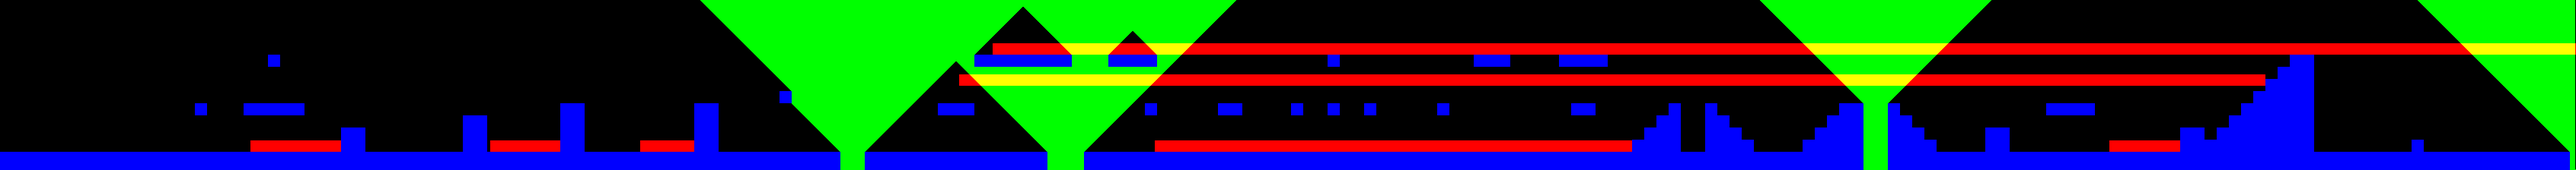
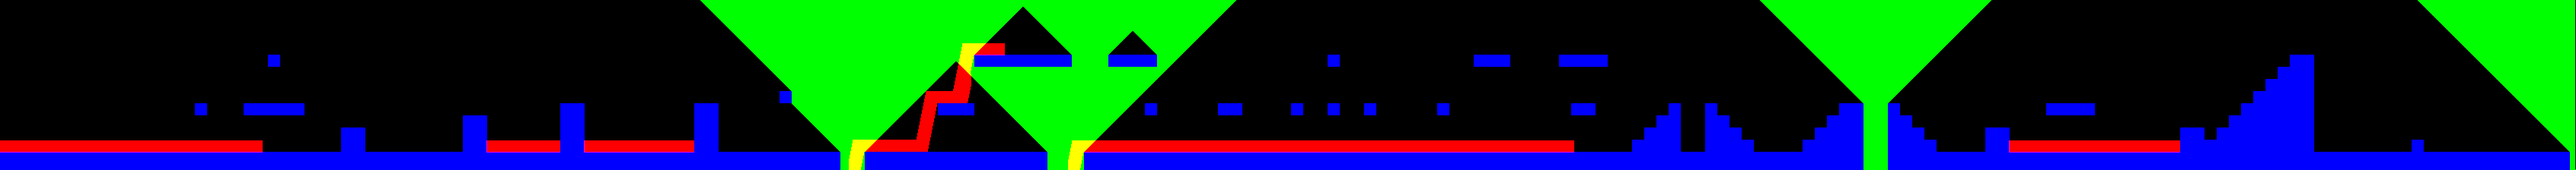
goomba movement

diff --git a/gamedifficulty/Processing.py b/gamedifficulty/Processing.py
@@ -65,12 +65,44 @@ def CreateStaticDanger(collisionMask: cv.Mat[cv.CV_8U]) -> cv.Mat[cv.CV_8U]:
 
 
 def CreateDisplacementTexture(ennemyType: EnemyType, detections: list[(int, int, int, int)], collisionMask: cv.Mat[cv.CV_8U]) -> cv.Mat[cv.CV_8U]:
+    if ennemyType == EnemyType.GOOMBA:
+        return CreateGoombaDisplacementTexture(detections, collisionMask)
 
+    return np.zeros(collisionMask.shape, dtype=np.uint8)
+
+def CreateGoombaDisplacementTexture(detections: list[(int, int, int, int)], collisionMask: cv.Mat[cv.CV_8U]) -> cv.Mat[cv.CV_8U]:
     result = np.zeros(collisionMask.shape, dtype=np.uint8)
 
-    # detection is y, x, ennemy size y, ennemy size x
+    cv.namedWindow("Window", cv.WINDOW_AUTOSIZE)
     for (y, x, sizeY, sizeX) in detections:
+        print("Goomba at", y, x)
 
+        result[y:y + sizeY, x:x + sizeX] = 1
+
+        direction = -1
+
+        iter = 0
+        maxIter = 1000
+        while True and iter < maxIter:
+            iter += 1
+
+            for i in range(0, int(np.abs(gravity))):
+                print(i)
+                if y < 0 or y + sizeY >= collisionMask.shape[0] or not collisionMask[y + sizeY, x:x + sizeX].any():
+                    y -= 1 * int(np.sign(gravity))
+                else:
+                    break
+
+            if collisionMask[y:y+sizeY - 1, x if direction == -1 else x + sizeX].any():
+                direction = 1 if direction == -1 else -1
+
+            x += direction
+
+            result[y:y + sizeY, x:x + sizeX] = 1
+
+            # if any of the pixels outside of image break
+            if y < 0 or y + sizeY >= collisionMask.shape[0] or x < 0 or x + sizeX >= collisionMask.shape[1]:
+                break
 
     return result
 

diff --git a/main.py b/main.py
@@ -20,18 +20,18 @@ positions += GD.Detection.DetectPatternMulti(levelImage, spriteSet.GetPipesTextu
 mask = GD.Processing.CreateMaskFromPatternResult(positions, levelImage.shape[:2])
 
 cv.imshow("Mask", mask * 255)
-cv.waitKey(0)
+# cv.waitKey(0)
 
 staticDanger = GD.Processing.CreateStaticDanger(mask)
 
 cv.imshow("Static Danger", staticDanger * 255)
-cv.waitKey(0)
+# cv.waitKey(0)
 
 goombaPositions = GD.Detection.DetectPatternMulti(levelImage, spriteSet.GetEnemyTextures(GD.Types.EnemyType.GOOMBA), 0.85)
 goombaDanger = GD.Processing.CreateDisplacementTexture(GD.Types.EnemyType.GOOMBA, goombaPositions, mask)
 
 cv.imshow("Goomba Danger", goombaDanger * 255)
-cv.waitKey(0)
+# cv.waitKey(0)
 
 enemyImage = GD.Processing.CreateMaskFromPatternResult(goombaPositions, levelImage.shape[:2])
 
